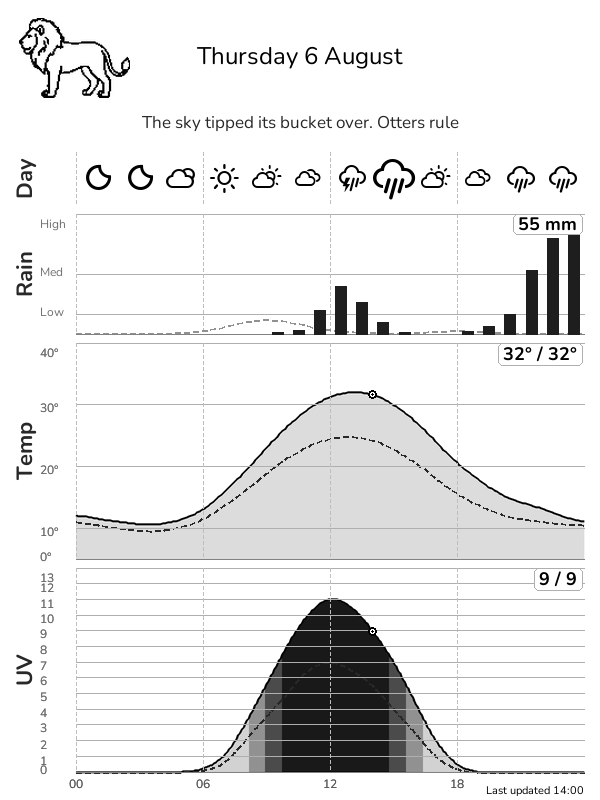
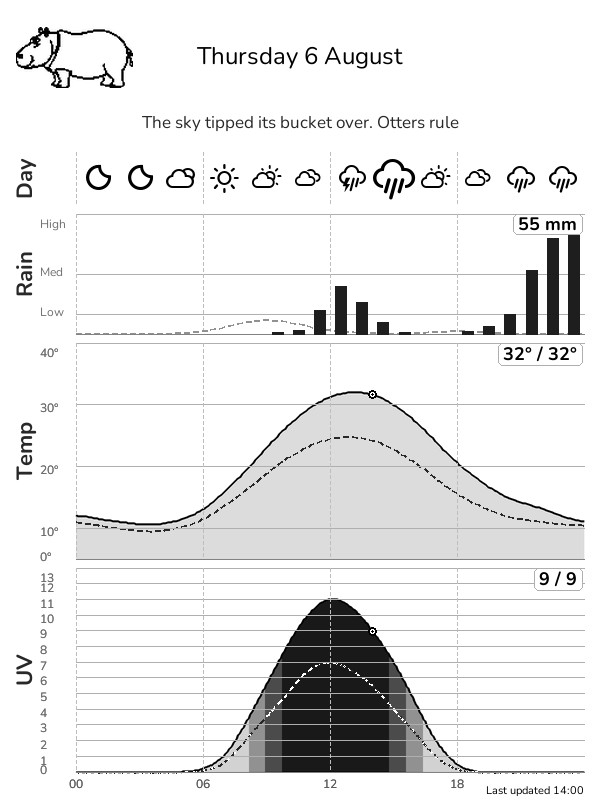
Add a detail frame suite and improve UV tomorrow-line contrast.
Batch-render stress dashboards every 15 minutes for now-marker checks, and flip dotted UV strokes to white over dark intensity bands.

Changed region(s): [[0.03, 0.0, 0.24, 0.125]]

diff --git a/src/generate_dashboard.py b/src/generate_dashboard.py
@@ -7,6 +7,7 @@ Usage:
     python src/generate_dashboard.py --timezone Europe/London
     python src/generate_dashboard.py --test
     python src/generate_dashboard.py --test stress -o public/dashboard-stress.png
+    python src/generate_dashboard.py --tests detail
 """
 
 from __future__ import annotations
@@ -28,6 +29,8 @@ from renderer import DEFAULT_TIMEZONE, Renderer, configure_logging
 from weather import FIXTURE_NAMES, build_fixture, fetch_weather_resilient
 
 DEFAULT_WEATHER_CACHE = ROOT_DIR / "public" / ".weather-cache.json"
+DETAIL_FIXTURE = "stress"
+DETAIL_MINUTES = (0, 15, 30, 45)
 
 
 def parse_args(argv: list[str] | None = None) -> argparse.Namespace:
@@ -39,7 +42,11 @@ def parse_args(argv: list[str] | None = None) -> argparse.Namespace:
         "-o",
         type=Path,
         default=None,
-        help="Output PNG path (default: public/dashboard.png, or public/dashboard-<fixture>.png with --test)",
+        help=(
+            "Output PNG path (default: public/dashboard.png, or "
+            "public/dashboard-<fixture>.png with --test). For --test detail, a "
+            "directory (default: public/dashboard-detail/)."
+        ),
     )
     parser.add_argument(
         "--timezone",
@@ -55,14 +62,16 @@ def parse_args(argv: list[str] | None = None) -> argparse.Namespace:
     )
     parser.add_argument(
         "--test",
+        "--tests",
         nargs="?",
         const="stress",
         default=None,
         metavar="SCENARIO",
         help=(
             "Use synthetic fixture weather instead of Open-Meteo. "
-            f"Optional scenario: {', '.join(FIXTURE_NAMES)} (default: stress). "
-            "Renders as of 14:00 so current/rest-of-day metrics are meaningful."
+            f"Optional scenario: {', '.join(FIXTURE_NAMES)}, detail (default: stress). "
+            "Single fixtures render as of 14:00. "
+            "``detail`` writes stress-fixture frames every 15 minutes from 00:00–23:45."
         ),
     )
     parser.add_argument(
@@ -80,6 +89,41 @@ def parse_args(argv: list[str] | None = None) -> argparse.Namespace:
     return parser.parse_args(argv)
 
 
+def _quarter_hours() -> list[tuple[int, int]]:
+    """00:00, 00:15, …, 23:45."""
+    return [(hour, minute) for hour in range(24) for minute in DETAIL_MINUTES]
+
+
+def run_detail_suite(
+    *,
+    renderer: Renderer,
+    weather,
+    timezone: str,
+    out_dir: Path,
+    weather_cache_path: Path,
+) -> Path:
+    """Render the stress fixture at every quarter-hour; return the output directory."""
+    out_dir.mkdir(parents=True, exist_ok=True)
+    tz = ZoneInfo(timezone)
+    base = datetime.now(tz).replace(second=0, microsecond=0)
+    frames = _quarter_hours()
+    for i, (hour, minute) in enumerate(frames, start=1):
+        now = base.replace(hour=hour, minute=minute)
+        stamp = f"{hour:02d}{minute:02d}"
+        path = out_dir / f"dashboard-{stamp}.png"
+        renderer.save(
+            path,
+            now=now,
+            weather=weather,
+            weather_stale=False,
+            weather_cache_path=weather_cache_path,
+            # Keep the animal stable across the day so frames only show clock drift.
+            random_animal=False,
+        )
+        print(f"[{i}/{len(frames)}] {stamp} → {path}")
+    return out_dir
+
+
 def main(argv: list[str] | None = None) -> int:
     args = parse_args(argv)
     configure_logging(verbose=args.verbose)
@@ -95,11 +139,20 @@ def main(argv: list[str] | None = None) -> int:
     weather = None
     weather_stale = False
     now = None
+    detail = args.test is not None and args.test.strip().lower() == "detail"
+
     if args.test is not None:
+        fixture_name = DETAIL_FIXTURE if detail else args.test
         try:
-            weather = build_fixture(args.test)
+            weather = build_fixture(fixture_name)
         except ValueError as exc:
-            print(f"error: {exc}", file=sys.stderr)
+            if detail:
+                print(f"error: {exc}", file=sys.stderr)
+            else:
+                print(
+                    f"error: {exc}. Or use 'detail' for a 15-minute frame sweep.",
+                    file=sys.stderr,
+                )
             return 1
         tz = ZoneInfo(args.timezone)
         # Mid-afternoon so Temp/UV "current / rest of day" maxes are interesting.
@@ -117,7 +170,9 @@ def main(argv: list[str] | None = None) -> int:
             return 1
 
     if args.output is None:
-        if args.test is not None:
+        if detail:
+            args.output = ROOT_DIR / "public" / "dashboard-detail"
+        elif args.test is not None:
             args.output = ROOT_DIR / "public" / f"dashboard-{args.test}.png"
         else:
             args.output = ROOT_DIR / "public" / "dashboard.png"
@@ -130,19 +185,33 @@ def main(argv: list[str] | None = None) -> int:
             assets_dir=ROOT_DIR / "assets",
             timezone=args.timezone,
         )
-        output = renderer.save(
-            args.output,
-            now=now,
-            weather=weather,
-            weather_stale=weather_stale,
-            weather_cache_path=args.weather_cache.resolve(),
-            random_animal=args.test is not None,
-        )
+        if detail:
+            output = run_detail_suite(
+                renderer=renderer,
+                weather=weather,
+                timezone=args.timezone,
+                out_dir=args.output,
+                weather_cache_path=args.weather_cache.resolve(),
+            )
+        else:
+            output = renderer.save(
+                args.output,
+                now=now,
+                weather=weather,
+                weather_stale=weather_stale,
+                weather_cache_path=args.weather_cache.resolve(),
+                random_animal=args.test is not None,
+            )
     except Exception as exc:  # noqa: BLE001 - top-level CLI error boundary
         print(f"error: failed to generate dashboard: {exc}", file=sys.stderr)
         return 1
 
-    if args.test is not None:
+    if detail:
+        print(
+            f"Detail suite ({DETAIL_FIXTURE} fixture, "
+            f"{len(_quarter_hours())} frames) → {output}"
+        )
+    elif args.test is not None:
         print(f"Test fixture '{args.test}' → {output}")
     elif weather_stale:
         print(f"Dashboard written to {output} (stale weather cache)")

diff --git a/src/widgets/charts.py b/src/widgets/charts.py
@@ -260,10 +260,29 @@ def draw_dotted_curve(
     width: int = 2,
     dash: int = 5,
     gap: int = 4,
+    image: Image.Image | None = None,
+    light_fill: int = 255,
+    dark_threshold: int = 110,
 ) -> None:
-    """Stroke a polyline with dashes only — no area fill."""
+    """Stroke a polyline with dashes only — no area fill.
+
+    When ``image`` is given, sample luminance under each dash and switch to
+    ``light_fill`` over dark pixels so the stroke stays visible on shaded fills
+    (e.g. extreme UV bands).
+    """
     if len(points) < 2:
         return
+
+    pixels = image.load() if image is not None else None
+    img_w = image.width if image is not None else 0
+    img_h = image.height if image is not None else 0
+
+    def stroke_fill(x: float, y: float) -> int:
+        if pixels is None:
+            return fill
+        ix = max(0, min(img_w - 1, int(round(x))))
+        iy = max(0, min(img_h - 1, int(round(y))))
+        return light_fill if int(pixels[ix, iy]) < dark_threshold else fill
 
     drawing = True
     remaining = float(dash)
@@ -283,7 +302,7 @@ def draw_dotted_curve(
             if drawing:
                 draw.line(
                     [(int(round(cx)), int(round(cy))), (int(round(nx)), int(round(ny)))],
-                    fill=fill,
+                    fill=stroke_fill((cx + nx) * 0.5, (cy + ny) * 0.5),
                     width=width,
                 )
             cx, cy = nx, ny

diff --git a/src/widgets/uv.py b/src/widgets/uv.py
@@ -167,7 +167,8 @@ class UVForecastWidget(Widget):
                 smooth=True,
                 preserve_values=True,
             )
-            draw_dotted_curve(draw, tomorrow_points)
+            # Flip to white over dark UV bands so tomorrow's dashes stay readable.
+            draw_dotted_curve(draw, tomorrow_points, image=image)
         # Grid on top so curves don't hide axis / time lines.
         draw_guides()
         draw_now_marker(

diff --git a/README.md b/README.md
@@ -22,9 +22,12 @@ Stress-test with synthetic data (no network):
 python src/generate_dashboard.py --test
 python src/generate_dashboard.py --test calm
 python src/generate_dashboard.py --test mixed
+python src/generate_dashboard.py --tests detail
 ```
 
 Fixtures: `stress` (UV 11, late heavy rain), `calm`, `mixed`. Writes `public/dashboard-<fixture>.png` by default.
+
+`detail` uses the stress fixture and writes a frame every 15 minutes from 00:00–23:45 into `public/dashboard-detail/` (96 PNGs) so you can scrub the now-marker across the day.
 
 ## Publish
 
